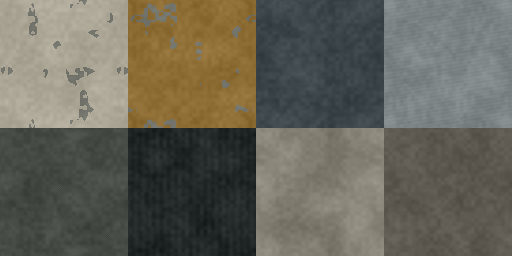
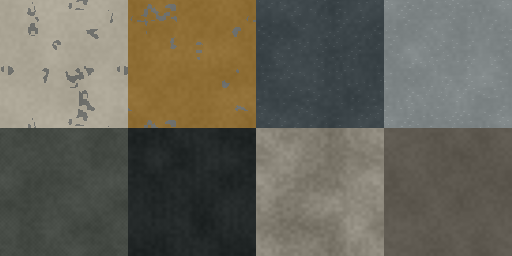
art: differentiate industrial atlas microstructure and wear

diff --git a/docs/art/reviews/06-industrial-atlas.md b/docs/art/reviews/06-industrial-atlas.md
@@ -9,3 +9,6 @@ Simulated roundtable:
 - UX: avoid relying on material colour for gameplay states; atlas is decorative.
 - Adversarial: no copied third-party textures added; existing free sources remain available through established pipeline. Determinism, pixel dimensions, variation, wrapped gutters and invalid input tested.
 - Retrospective: chose generated material atlas instead of inaccessible external downloads. Poly Haven/Quaternius source assets already in project are not included in these generated files; this deliverable does not claim imported PBR scans or in-game integration.
+
+## Visual revision v2
+Reduced uniform wear and made surface structure material-specific: woven fabric, molded polymer, rubber ribs, directional alloy brushing, sparse scratches, ceramic/paint chips and concrete pores. Preserved dimensions, eight tile IDs, gutter layout and packed map semantics. Art: distinguish surfaces without excessive grunge. Technical: preserve atlas UVs and colour-space contract. Runtime: no growth in texture dimensions. UX: decorative board remains nonsemantic. Adversarial: repeat bytes and gutter matches verified. Retrospective: still procedural 128-pixel tiles, not scanned or baked hero textures; actual PBR sphere/scene comparison remains needed. No live atlas binding added.
